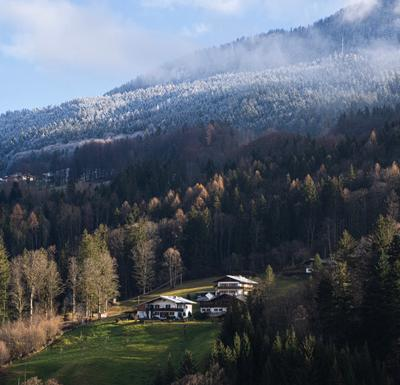
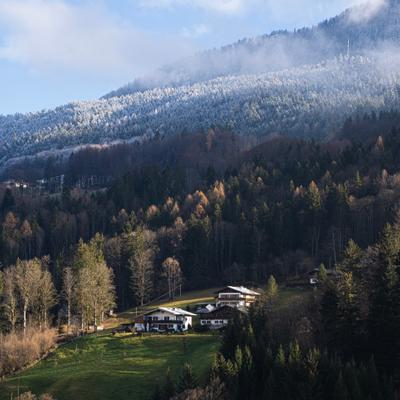
regenerate thumbnails

diff --git a/generate-tumbnails.js b/generate-tumbnails.js
@@ -17,7 +17,7 @@ files.forEach(file => {
   const outputPath = path.join(outputDir, file);
 
   sharp(inputPath)
-    .resize(400) // or 300 for even faster loads
+    .resize(400,400, "inside") // or 300 for even faster loads
     .jpeg({ quality: 75 }) // keeps files small but nice
     .toFile(outputPath)
     .then(() => console.log(`✅ Thumbnail created: ${file}`))
